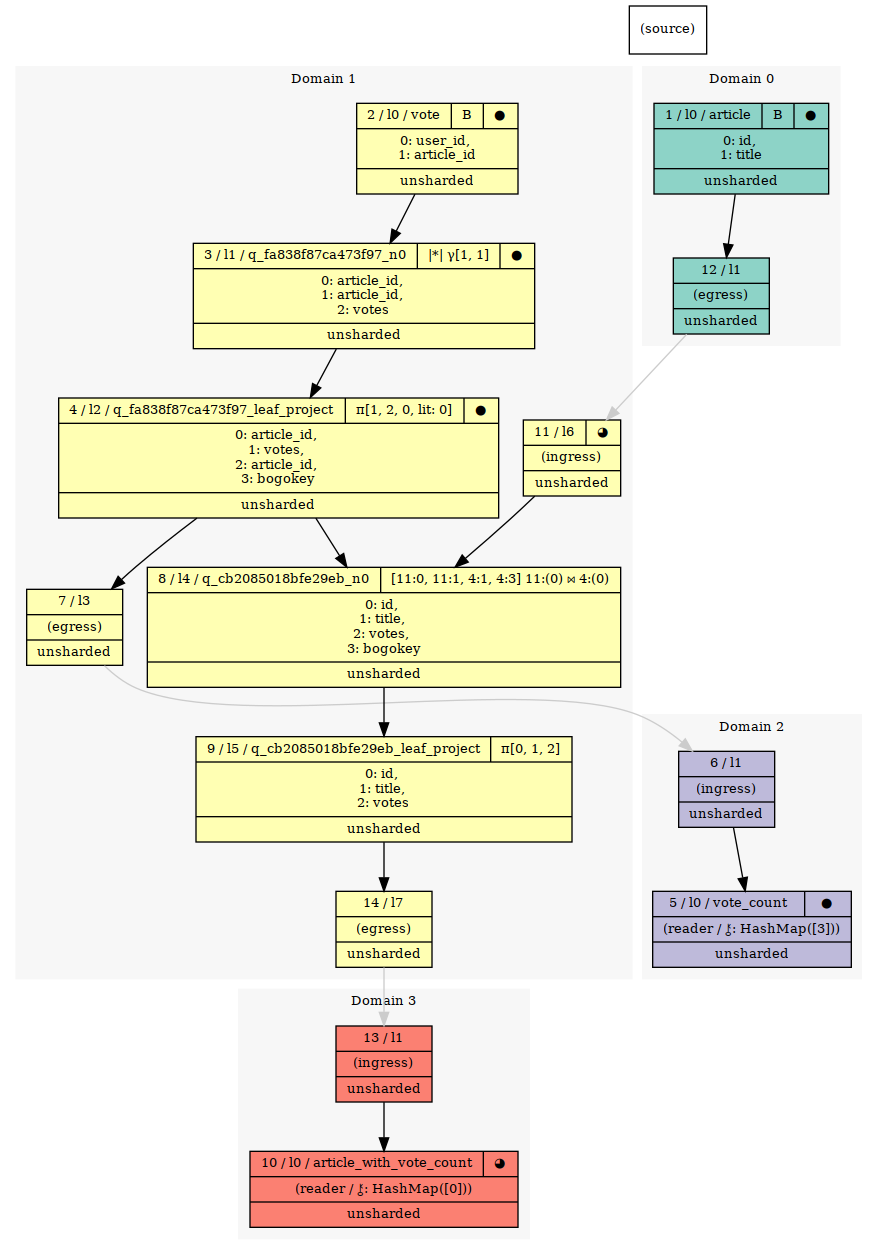
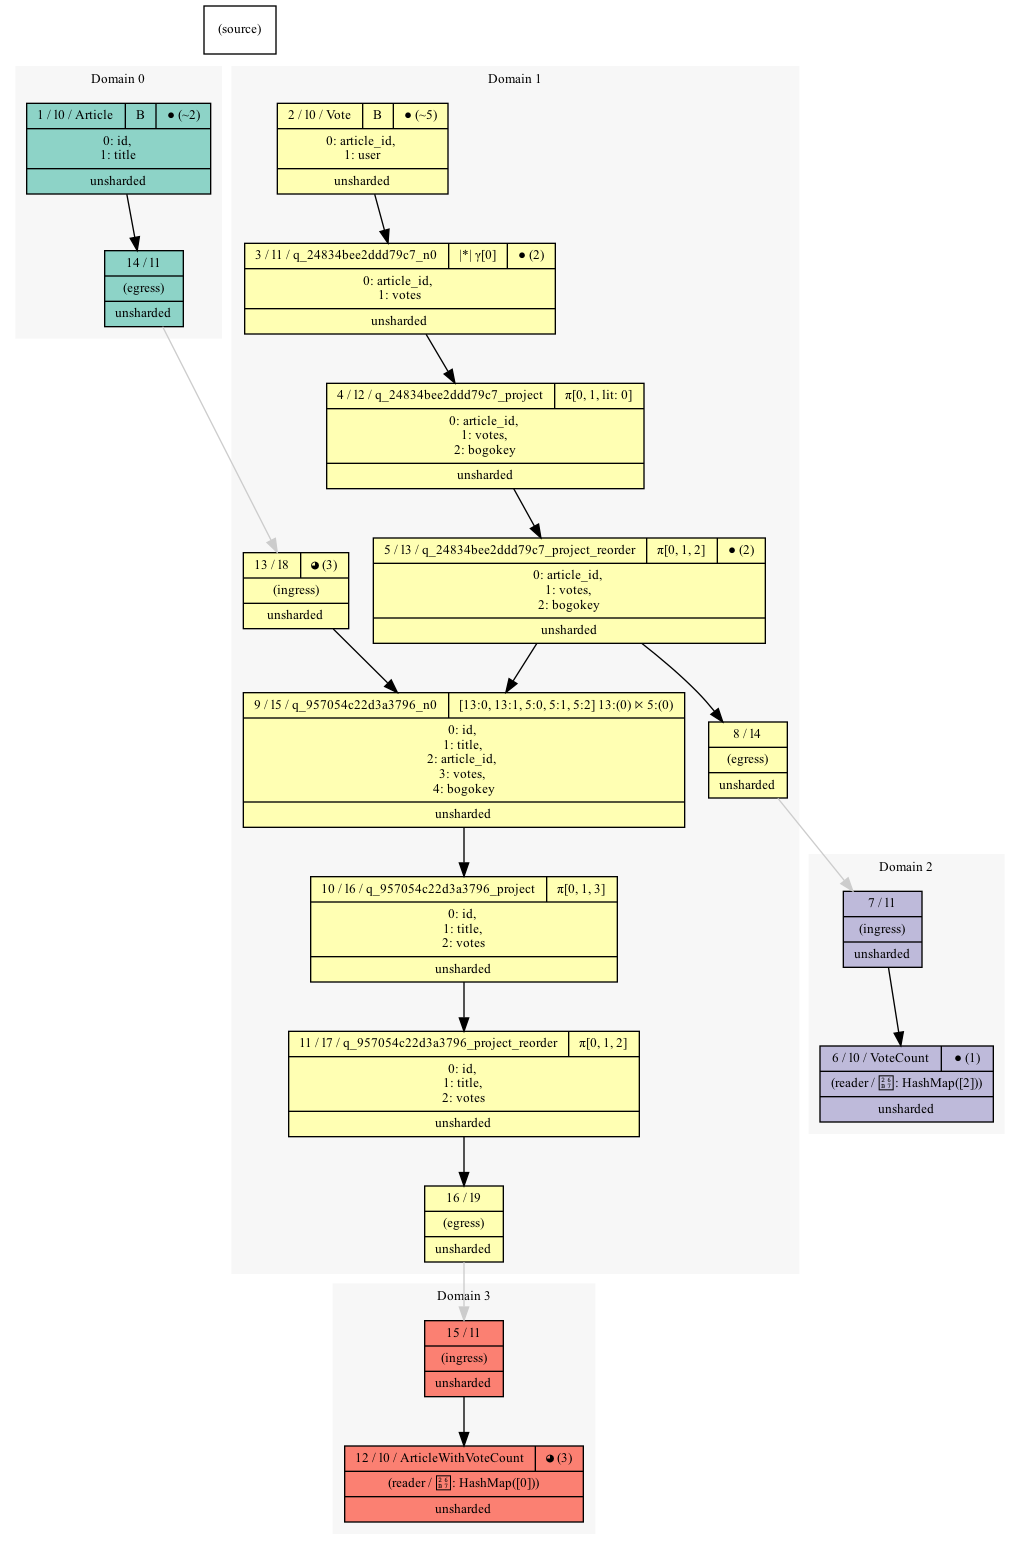
docs: Update documentation for GraphViz key count features
Now that we have key counts in GraphViz, the docs need to be updated to
explain what the new numbers in the graph represent. I've also updated
the example graph to match the new output format. The graph structure is
not exactly the same as the current graph, because newer versions of
ReadySet appear to create some extra project_reorder nodes that didn't
used to be introduced, but it's very close to the same other than that.

diff --git a/docs/src/debugging.md b/docs/src/debugging.md
@@ -211,11 +211,18 @@ In a dataflow graphviz diagram:
         node 4
     - For [base table][base] nodes, there is the letter "B" in place of the
       ingredient description, which is short for "Base"
-    - Finally in the title section is an optional representation of the
-      *statefulness* of the node. Fully materialized nodes have a filled circle
-      ("●"), whereas partially materialized nodes have a three-quarters-filled
-      circle ("◕"). Note that base nodes are by definition always fully
-      materialized
+    - The title section can optionally contain a representation of the
+      *statefulness* of the node. This includes a symbol that indicates
+      partial vs. full materialization, followed by a key count.
+      - Fully materialized nodes have a filled circle ("●"), whereas partially
+        materialized nodes have a three-quarters-filled circle ("◕"). Note that
+        [base][] nodes are by definition always fully materialized.
+      - After the materialization symbol, a key count is contained in
+        parenthesis. For most nodes, this is a precise count of the number of
+        keys that the node contains in memory. However, since [base][] nodes are
+        backed on disk via [RocksDB][rocksdb], it is non-trivial to obtain an accurate key
+        count, and instead an estimate of the row count is given, with a tilde
+        (~) prefixing the count to indicate that it is not necessarily precise.
   - Following the title, for [internal][] and [base][] nodes, is a list of the
     column indices and names in that node.
   - In the place of columns, [ingress][] and [egress][] nodes contain just the
@@ -240,6 +247,7 @@ In a dataflow graphviz diagram:
 [egress]: /rustdoc/noria_dataflow/node/special/struct.Egress.html
 [reader]: /rustdoc/noria_dataflow/node/special/reader/struct.Reader.html
 [index type]: /rustdoc/noria_dataflow/prelude/enum.IndexType.html
+[rocksdb]: /rustdoc/rocksdb/index.html
 
 #### Sharding
 
